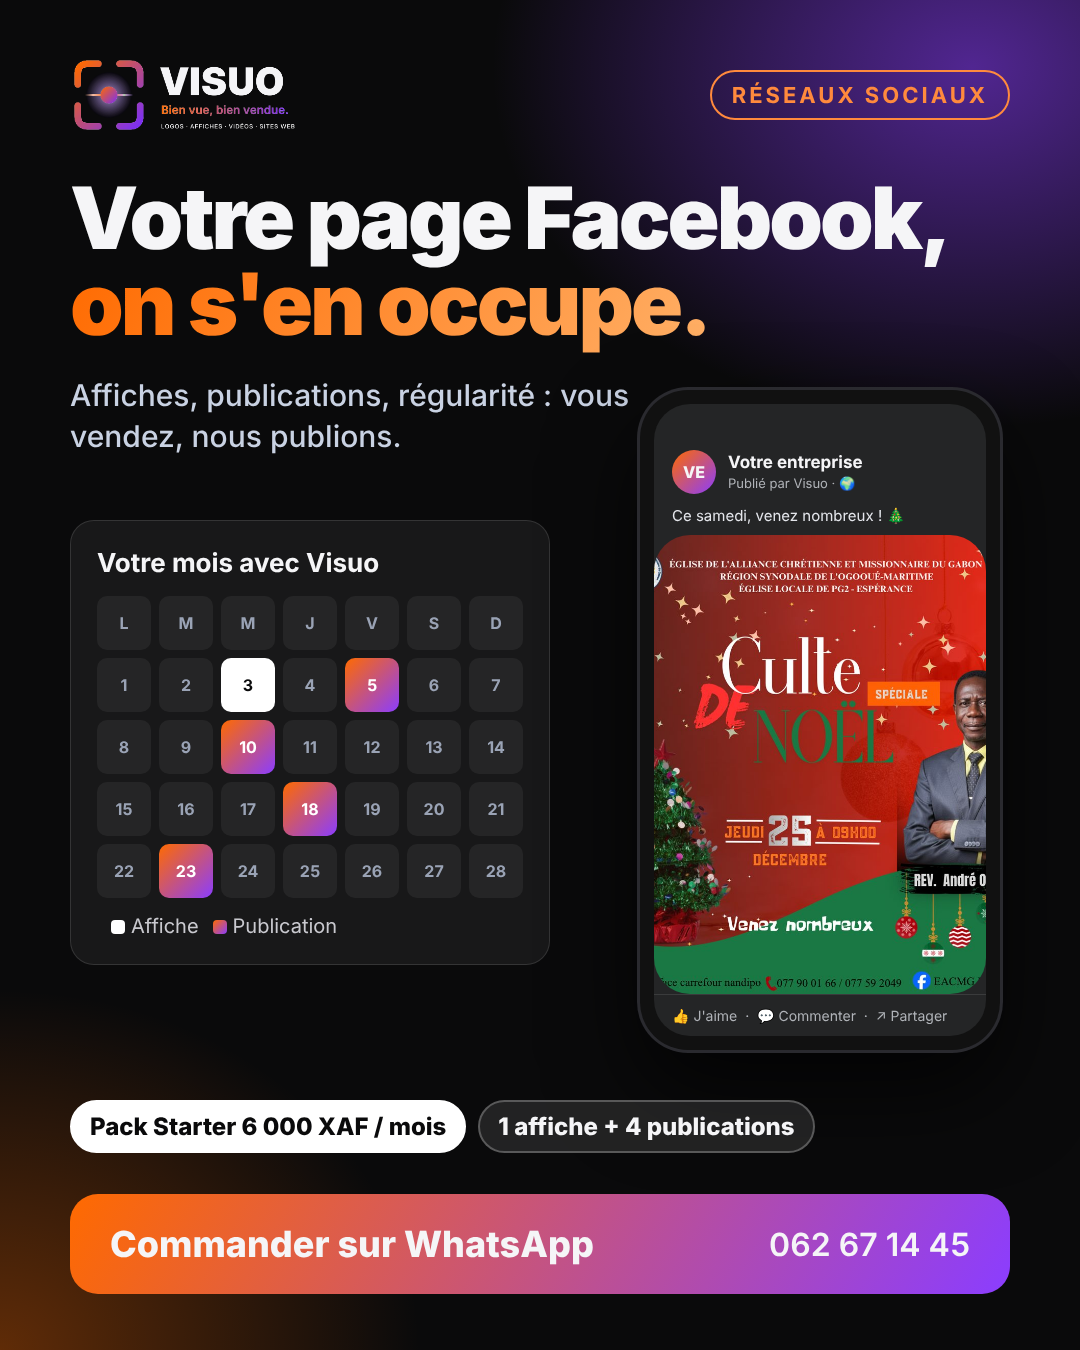
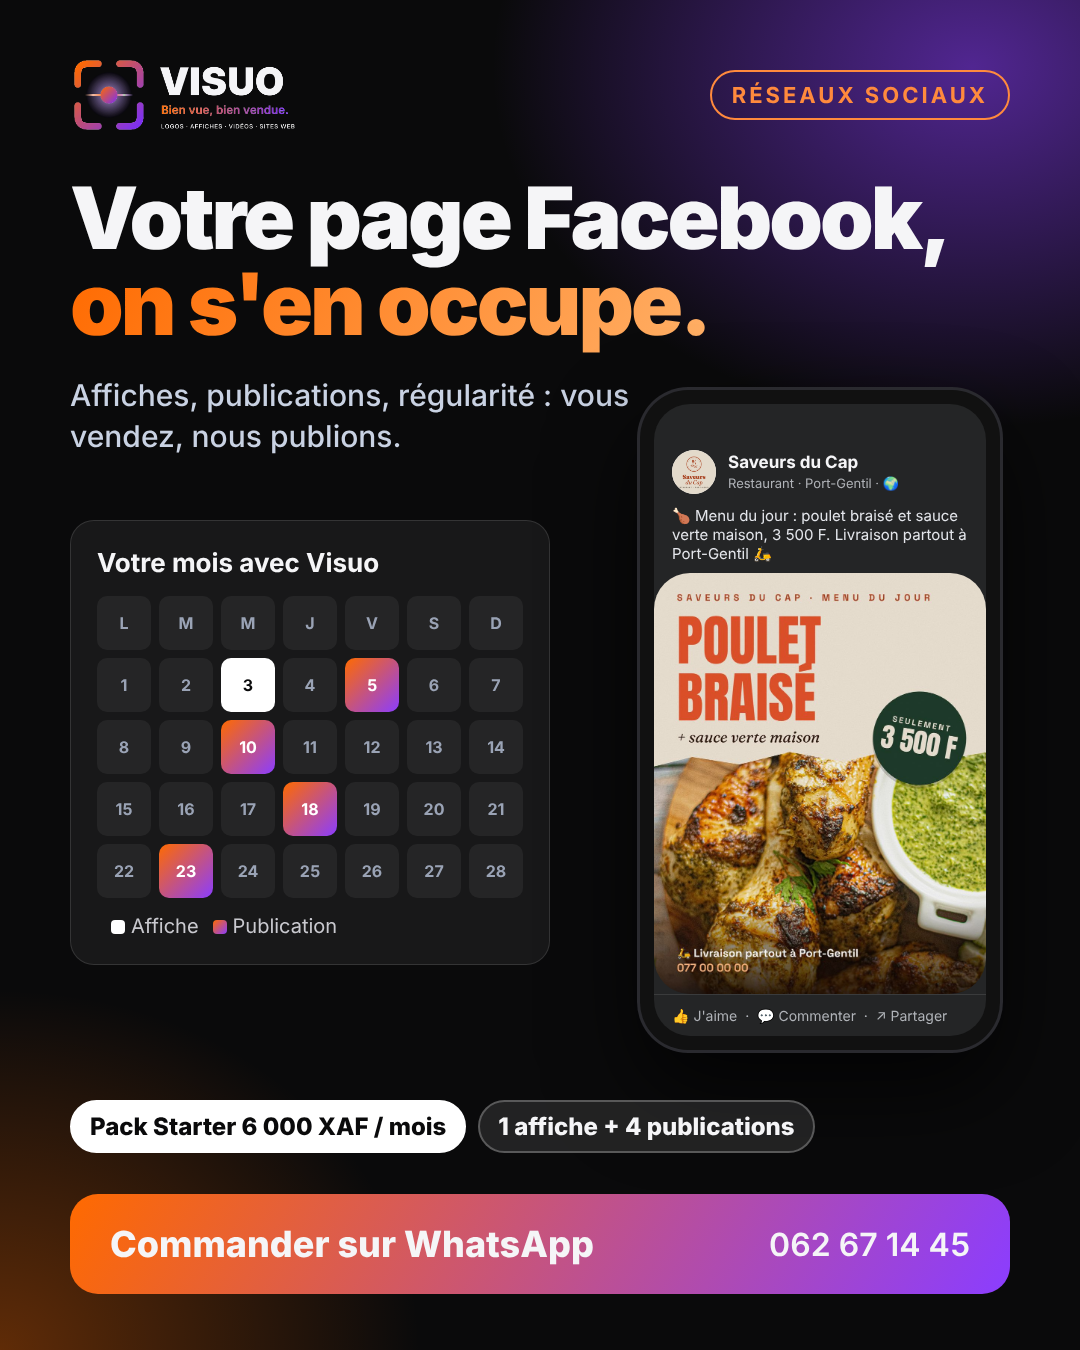
Visuo page Facebook : image et texte cohérents
La maquette de publication montrait une affiche de culte de Noël pour
« Votre entreprise ». Elle utilise maintenant le modèle restaurant du
site (Saveurs du Cap : logo, affiche Menu du jour, texte assorti).
Règle ajoutée au README : le texte et l'image parlent de la même chose.

Claude-Session: https://claude.ai/code/session_01KbGiktRWXap9n5rdpaZ3jT

Changed region(s): [[0.5806, 0.3111, 0.9167, 0.7467]]

diff --git a/marketing/modeles/post-visuo-3.html b/marketing/modeles/post-visuo-3.html
@@ -17,7 +17,7 @@ h1 span{background:linear-gradient(120deg,#FF6A00,#ffb067);-webkit-background-cl
 .tel{right:80px;top:390px;width:360px;height:660px}
 .tel .fb{position:absolute;inset:14px;border-radius:36px;overflow:hidden;background:#242526;display:flex;flex-direction:column}
 .fb .h{display:flex;align-items:center;gap:12px;padding:46px 18px 12px}
-.fb .h .av{width:44px;height:44px;border-radius:50%;background:linear-gradient(135deg,#FF6A00,#8B3DFF);display:grid;place-items:center;font-weight:800;font-size:16px}
+.fb .h .av{width:44px;height:44px;border-radius:50%;object-fit:cover;background:#fff}
 .fb .h b{font-size:17px;display:block}.fb .h small{font-size:13px;color:#b0b3b8}
 .fb .t{font-size:15px;padding:0 18px 10px;color:#e4e6eb}
 .fb .im{flex:1;overflow:hidden}.fb .im img{width:100%;display:block}
@@ -36,9 +36,9 @@ h1 span{background:linear-gradient(120deg,#FF6A00,#ffb067);-webkit-background-cl
  <span>22</span><span class="p">23</span><span>24</span><span>25</span><span>26</span><span>27</span><span>28</span>
  </div><p><i style="background:#fff"></i>Affiche<i style="background:linear-gradient(135deg,#FF6A00,#8B3DFF)"></i>Publication</p></div>
 <div class="tel"><div class="fb">
- <div class="h"><span class="av">VE</span><div><b>Votre entreprise</b><small>Publié par Visuo · 🌍</small></div></div>
- <div class="t">Ce samedi, venez nombreux ! 🎄</div>
- <div class="im"><img src="assets/img/visuo/culte-noel.jpg"></div>
+ <div class="h"><img class="av" src="assets/img/visuo/logo-saveurs-du-cap.jpg"><div><b>Saveurs du Cap</b><small>Restaurant · Port-Gentil · 🌍</small></div></div>
+ <div class="t">🍗 Menu du jour : poulet braisé et sauce verte maison, 3 500 F. Livraison partout à Port-Gentil 🛵</div>
+ <div class="im"><img src="assets/img/visuo/affiche-restaurant.jpg"></div>
  <div class="r">👍 J'aime &nbsp;·&nbsp; 💬 Commenter &nbsp;·&nbsp; ↗ Partager</div></div></div>
 <div class="badges"><span class="price">Pack Starter 6 000 XAF / mois</span><span>1 affiche + 4 publications</span></div>
 <div class="cta"><b>Commander sur WhatsApp</b><span>062 67 14 45</span></div>

diff --git a/marketing/README.md b/marketing/README.md
@@ -16,6 +16,7 @@ Ce dossier contient les outils qui fabriquent les publications de DWTS (affiches
 - Voix off officielle : ElevenLabs **Paul K** (`voice_id` `ecxPjiGTvAfpGEams6ec`), modèle `eleven_v4`, **1 seule prise** par vidéo.
 - **Modèles d'affiches de référence** (inspirés des anciennes affiches d'Elie, refaits aux couleurs du nouveau logo) : `post-dwts-1` (fondateur + 3 branches), `post-dex-3` (problème → solution, vraies pages d'exposés), `post-visuo-2` (affiche d'événement, vraies affiches dans un téléphone). Photo détourée d'Elie : `marketing/photos/elie-detoure.png`.
 - Ne plus proposer les abonnements Netflix et IPTV : hors des trois branches, et risque juridique (revente de comptes, IPTV sans droits).
+- **Le texte et l'image doivent parler de la même chose.** Pour une offre aux entreprises, prendre les modèles par secteur du site (`assets/img/visuo/` : restaurant Saveurs du Cap, boutique Okoumé, salle de sport Cap Fit, salon Nappy Queen, avec leur logo et leur affiche) ; pour une offre « événement », les affiches d'événements (culte, camp, conférence). Vérifier chaque rendu en relisant texte et image ensemble.
 - Uniquement de vraies réalisations (`assets/img/dex`, `assets/img/visuo`, `assets/img/logia`), jamais d'images inventées.
 
 ## Règles de conception (compétence `meta-ads-dwts`, section 10)
